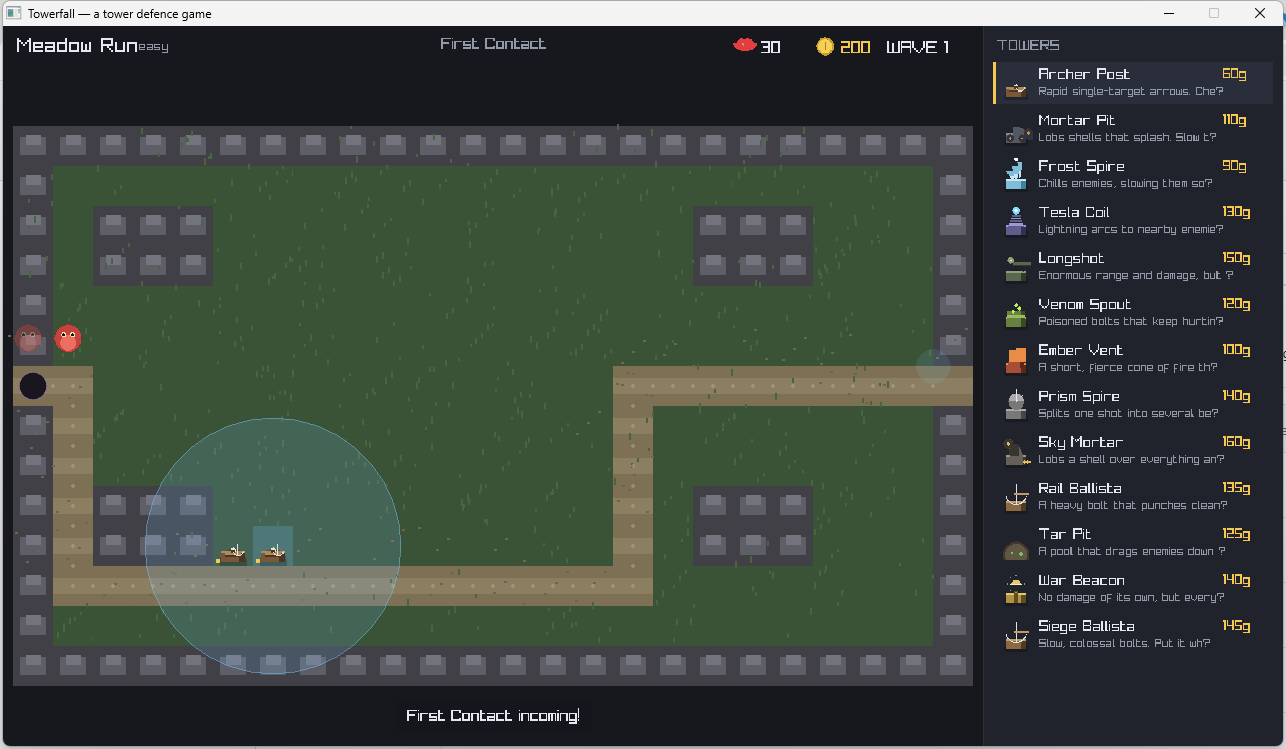
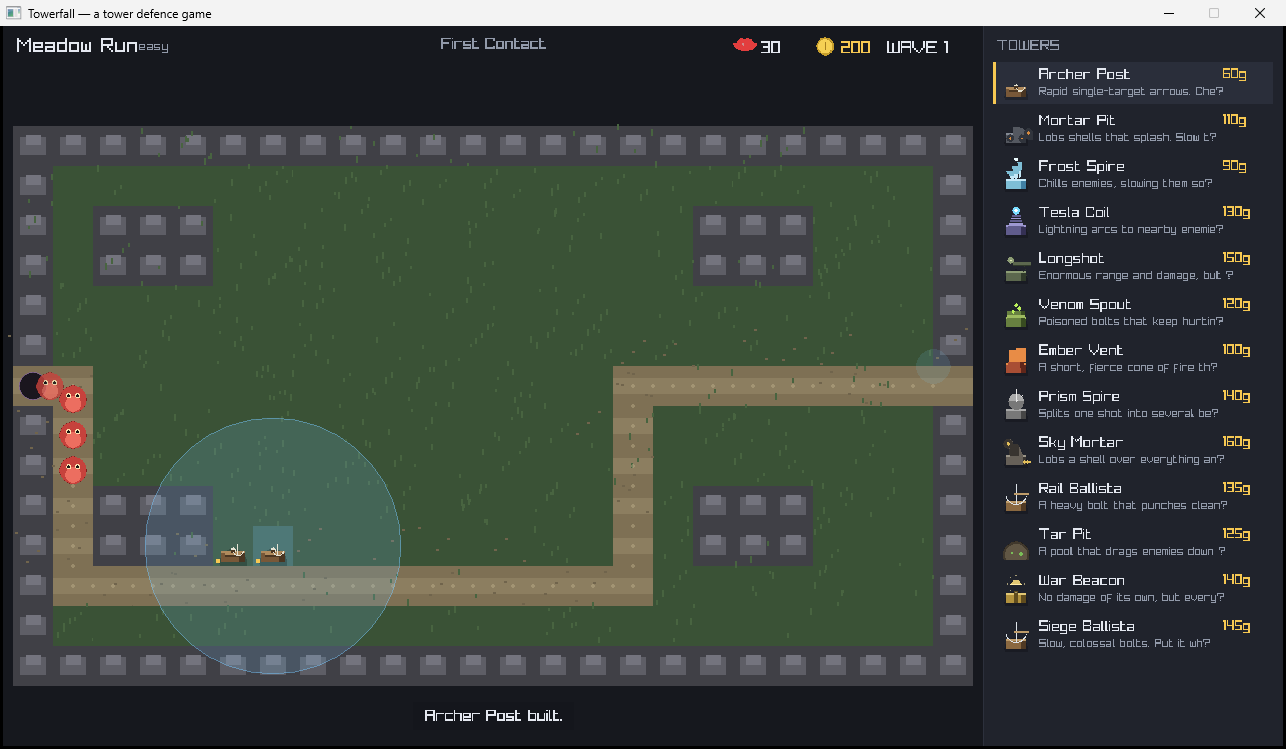
Feat, fix the scaling misalignment

Changed region(s): [[0.0, 0.0, 1.0, 1.0], [0.0, 0.4299, 0.0933, 0.6449], [0.0, 0.0, 0.0311, 0.0307]]

diff --git a/tests/run_tests.cpp b/tests/run_tests.cpp
@@ -13,6 +13,7 @@
 
 #include "core/Game.h"
 #include "core/LuaContent.h"
+#include "core/MapView.h"
 
 using namespace tf;
 
@@ -165,12 +166,115 @@ int buildDefence(Game& g, TowerKind kind = TowerKind::Arrow, int maxTowers = 30)
     return built;
 }
 
+Cell routeCellNear(const Game& g, Vec2 world) {
+    Cell best{0, 0};
+    float bestD = 1e30f;
+    for (const Cell& c : g.level().waypoints) {
+        const Vec2 w = g.cellToWorld(c);
+        const float dx = w.x - world.x, dy = w.y - world.y;
+        const float d = dx * dx + dy * dy;
+        if (d < bestD) { bestD = d; best = c; }
+    }
+    return best;
+}
+
 }  // namespace
 
 // ===========================================================================
 
 int main() {
     std::printf("towerfall — headless test suite\n");
+
+    // ---------------------------------------------------------------------
+    // THE COORDINATE-SPACE BRIDGE.
+    //
+    // The simulation works in 48-pixel world tiles; the map is DRAWN at a
+    // different pixel size so it fits the window. Anything drawn in world pixels
+    // (enemies, projectiles) has to be scaled by the same factor as the terrain.
+    //
+    // This bug is not subtle: with the wrong factor the enemy leaves the path,
+    // starts a tile high and drifts off to the right, because the error grows
+    // with distance from the origin. These checks would have caught it.
+    section("coordinate space (world <-> screen)");
+    {
+        Game g = makeGame();
+        const float world = g.tileSize();
+
+        // The real case: the display tile size is smaller than the world tile size.
+        const int display = std::min(static_cast<int>(980 / g.grid().width()),
+                                     static_cast<int>((720 - 40) / g.grid().height()));
+        check(display != static_cast<int>(world),
+              "the display tile size really does differ from the world tile size "
+              "(otherwise this test proves nothing)");
+
+        const MapView view{10.0f, 100.0f, static_cast<float>(display), world};
+
+        // A cell's world position must land on that cell when converted to screen.
+        for (int x = 0; x < g.grid().width(); ++x) {
+            for (int y = 0; y < g.grid().height(); ++y) {
+                const Cell c{x, y};
+                const Vec2 w = g.cellToWorld(c);
+                const Vec2 s = view.worldToScreen(w);
+                const Cell back = view.screenToCell(s.x, s.y);
+                if (back.x != c.x || back.y != c.y) {
+                    check(false, "cell " + std::to_string(x) + "," + std::to_string(y) +
+                                     " does not round-trip world -> screen -> cell");
+                    x = g.grid().width();
+                    break;
+                }
+            }
+        }
+        check(true, "every cell round-trips world -> screen -> cell");
+
+        // The centre of a cell must land inside that cell on screen.
+        const Cell mid{5, 6};
+        const Vec2 worldPos = g.cellToWorld(mid);
+        const Vec2 screenPos = view.worldToScreen(worldPos);
+        const Cell got = view.screenToCell(screenPos.x, screenPos.y);
+        check(got.x == mid.x && got.y == mid.y,
+              "a world position on the path maps back to the same cell on screen");
+
+        // The scale factor must be the display size over the world size.
+        checkEqF(view.scale(), static_cast<float>(display) / world, 0.0001f,
+                 "the world -> screen scale is display tiles / world tiles");
+
+        // screen -> world is the exact inverse of world -> screen.
+        const Vec2 back = view.screenToWorld(screenPos.x, screenPos.y);
+        checkEqF(back.x, worldPos.x, 0.01f, "screen -> world inverts world -> screen (x)");
+        checkEqF(back.y, worldPos.y, 0.01f, "screen -> world inverts world -> screen (y)");
+
+        // THE REGRESSION ITSELF: an enemy standing on a path cell must be drawn
+        // over that same path cell. Before the fix the enemy was drawn at its raw
+        // world pixels, which is a different place entirely.
+        const Cell pathCell = routeCellNear(g, g.cellToWorld(routeStart(g)));
+        const Vec2 enemyWorld = g.cellToWorld(pathCell);
+        const Vec2 enemyScreen = view.worldToScreen(enemyWorld);
+        const Cell enemyCell = view.screenToCell(enemyScreen.x, enemyScreen.y);
+        check(enemyCell.x == pathCell.x && enemyCell.y == pathCell.y,
+              "an enemy on a path cell is DRAWN over that path cell, not off it");
+
+        // And the error must be small at the far corner of the map too, which is
+        // where the old code drifted furthest.
+        //
+        // cellToWorld gives the CENTRE of a cell; cellToScreen gives its CORNER.
+        // So the centre on screen is the corner plus half a display tile.
+        const Cell far{g.grid().width() - 1, g.grid().height() - 1};
+        const Vec2 farWorld = g.cellToWorld(far);
+        const Vec2 farScreen = view.worldToScreen(farWorld);
+        const Vec2 farCorner = view.cellToScreen(far);
+        const float half = view.tileSize * 0.5f;
+        checkEqF(farScreen.x, farCorner.x + half, 0.01f,
+                 "the far corner of the map does not drift (x)");
+        checkEqF(farScreen.y, farCorner.y + half, 0.01f,
+                 "the far corner of the map does not drift (y)");
+
+        // The drift the old code produced, stated as a number: at the far corner
+        // the enemy was drawn a full tile away from the terrain under it.
+        const float oldScale = 1.0f;  // the old code drew world pixels as screen pixels
+        const float oldX = view.originX + farWorld.x * oldScale;
+        check(std::fabs(oldX - farScreen.x) > 15.0f,
+              "the old (unscaled) drawing was off by more than 15px at the far corner");
+    }
 
     // ---------------------------------------------------------------------
     section("grid and pathfinding");

diff --git a/src/render/Renderer.cpp b/src/render/Renderer.cpp
@@ -206,8 +206,20 @@ void Renderer::draw(const Game& g, const GameView& view) {
     const int mapX = (canvasW - mapW) / 2;
     const int mapY = 40 + (screenH - 40 - mapH) / 2;
 
+    // THE COORDINATE-SPACE BRIDGE — see MapView in Renderer.h. The renderer and the
+    // input code share this one object, so a click and a drawn enemy can never
+    // disagree about where a cell is.
+    const MapView mapView{static_cast<float>(mapX), static_cast<float>(mapY),
+                          static_cast<float>(ts), g.tileSize()};
+
+    // The core Vec2 -> raylib Vector2, at the last possible moment.
     auto cellPx = [&](Cell c) {
-        return Vector2{static_cast<float>(mapX + c.x * ts), static_cast<float>(mapY + c.y * ts)};
+        const Vec2 s = mapView.cellToScreen(c);
+        return Vector2{s.x, s.y};
+    };
+    auto worldToScreen = [&](Vec2 w) {
+        const Vec2 s = mapView.worldToScreen(w);
+        return Vector2{s.x, s.y};
     };
 
     // ---- terrain
@@ -323,23 +335,24 @@ void Renderer::draw(const Game& g, const GameView& view) {
         Color tint{255, 255, 255, static_cast<unsigned char>(alpha)};
         if (e.hitFlash > 0) tint = Color{255, 200, 200, static_cast<unsigned char>(alpha)};
         if (e.slowFactor < 1.0f) tint.r = static_cast<unsigned char>(tint.r * 0.7f);
+        const Vector2 ep = worldToScreen(Vec2{e.x, e.y});
         drawScaled(sprites_.enemySprites[static_cast<size_t>(texIndex)],
-                   static_cast<int>(e.x - size * 0.5f), static_cast<int>(e.y - size * 0.5f),
+                   static_cast<int>(ep.x - size * 0.5f), static_cast<int>(ep.y - size * 0.5f),
                    static_cast<int>(size), tint);
 
         if (e.maxHp > 60 || e.isBoss) {
             const float w = size * 0.9f;
-            DrawRectangle(e.x - w * 0.5f, e.y - size * 0.6f, w, 4, Color{26, 26, 30, 220});
+            DrawRectangle(ep.x - w * 0.5f, ep.y - size * 0.6f, w, 4, Color{26, 26, 30, 220});
             const float frac = std::max(0.0f, e.hp / static_cast<float>(e.maxHp));
-            DrawRectangle(e.x - w * 0.5f, e.y - size * 0.6f, w * frac, 4,
+            DrawRectangle(ep.x - w * 0.5f, ep.y - size * 0.6f, w * frac, 4,
                           e.isBoss ? Color{220, 90, 90, 255} : Color{240, 200, 90, 255});
         }
-        float sy = e.y - size * 0.75f;
-        if (e.slowTimer > 0)   { DrawCircleV({e.x - 8, sy}, 4, Color{110, 190, 240, 255}); sy -= 9; }
-        if (e.burnTimer > 0)   { DrawCircleV({e.x - 8, sy}, 4, Color{240, 140, 60, 255}); sy -= 9; }
-        if (e.poisonTimer > 0) { DrawCircleV({e.x - 8, sy}, 4, Color{140, 220, 90, 255}); sy -= 9; }
+        float sy = ep.y - size * 0.75f;
+        if (e.slowTimer > 0)   { DrawCircleV({ep.x - 8, sy}, 4, Color{110, 190, 240, 255}); sy -= 9; }
+        if (e.burnTimer > 0)   { DrawCircleV({ep.x - 8, sy}, 4, Color{240, 140, 60, 255}); sy -= 9; }
+        if (e.poisonTimer > 0) { DrawCircleV({ep.x - 8, sy}, 4, Color{140, 220, 90, 255}); sy -= 9; }
         if (e.archetype == EnemyArchetype::Attacker) {
-            DrawCircleLinesV({e.x, e.y}, size * 0.62f, Color{240, 90, 90, 160});
+            DrawCircleLinesV(ep, size * 0.62f, Color{240, 90, 90, 160});
         }
     }
 
@@ -359,14 +372,15 @@ void Renderer::draw(const Game& g, const GameView& view) {
             case ProjectileStyle::Pierce:      c = Color{240, 246, 255, 255}; r = 3; break;
             default: break;
         }
-        DrawCircleV({p.pos.x, p.pos.y}, r, c);
+        DrawCircleV(worldToScreen(Vec2{p.pos.x, p.pos.y}), r, c);
     }
 
     // ---- floating text
     for (const auto& f : g.floaters()) {
         const float a = std::max(0.0f, f.life / f.maxLife);
-        drawTextCentered(f.text, static_cast<int>(f.pos.x),
-                         static_cast<int>(f.pos.y - (1.0f - a) * 18), 16,
+        const Vector2 fp = worldToScreen(f.pos);
+        drawTextCentered(f.text, static_cast<int>(fp.x),
+                         static_cast<int>(fp.y - (1.0f - a) * 18), 16,
                          Color{static_cast<unsigned char>(f.color.r * a + 60 * (1 - a)),
                                static_cast<unsigned char>(f.color.g * a + 60 * (1 - a)),
                                static_cast<unsigned char>(f.color.b * a + 60 * (1 - a)),

diff --git a/src/core/MapView.h b/src/core/MapView.h
@@ -1,0 +1,61 @@
+// towerfall — the coordinate bridge between the simulation and the screen.
+//
+// THE SINGLE SOURCE OF TRUTH FOR THE COORDINATE CONVERSION.
+//
+// The simulation works in a fixed world space where one tile is `worldTileSize`
+// pixels (48). The map is DRAWN at `tileSize` pixels per tile so that it fits the
+// window, so those two numbers are usually different.
+//
+// Anything positioned in world pixels — enemies, projectiles, floating text — must be
+// scaled by the same factor as the terrain, or it is drawn somewhere the terrain is
+// not. Forgetting this is not a subtle bug: the enemy leaves the path, starts a tile
+// high, and drifts off to the right, because the error grows with distance from the
+// origin.
+//
+// This struct is shared by the renderer (world -> screen) and by the input code
+// (screen -> cell), so the two can never disagree. It has no graphics dependency, so
+// it is unit tested.
+
+#pragma once
+
+#include "core/Types.h"
+
+namespace tf {
+
+struct MapView {
+    // Where the map's top-left corner is on the screen.
+    float originX = 0;
+    float originY = 0;
+    // How many screen pixels one tile occupies.
+    float tileSize = 48;
+    // How many WORLD pixels one tile occupies (the simulation's tile size).
+    float worldTileSize = 48;
+
+    // The factor that converts world pixels into screen pixels.
+    float scale() const { return tileSize / worldTileSize; }
+
+    // world -> screen
+    Vec2 worldToScreen(Vec2 w) const {
+        const float s = scale();
+        return Vec2{originX + w.x * s, originY + w.y * s};
+    }
+
+    // screen -> world
+    Vec2 screenToWorld(float sx, float sy) const {
+        const float s = worldTileSize / tileSize;
+        return Vec2{(sx - originX) * s, (sy - originY) * s};
+    }
+
+    // screen -> cell
+    Cell screenToCell(float sx, float sy) const {
+        return Cell{static_cast<int>((sx - originX) / tileSize),
+                    static_cast<int>((sy - originY) / tileSize)};
+    }
+
+    // cell -> screen (the top-left corner of the tile, for drawing terrain)
+    Vec2 cellToScreen(Cell c) const {
+        return Vec2{originX + c.x * tileSize, originY + c.y * tileSize};
+    }
+};
+
+}  // namespace tf

diff --git a/src/main.cpp b/src/main.cpp
@@ -45,10 +45,13 @@ Cell mouseToCell(const Game& game, Vector2 mouse) {
     const int mapX = (canvasW - mapW) / 2;
     const int mapY = 40 + (GetScreenHeight() - 40 - mapH) / 2;
 
-    const int cx = static_cast<int>((mouse.x - mapX) / ts);
-    const int cy = static_cast<int>((mouse.y - mapY) / ts);
-    if (!game.grid().inBounds(cx, cy)) return Cell{-1, -1};
-    return Cell{cx, cy};
+    // The SAME conversion the renderer uses, so a click always lands on the tile
+    // that is actually drawn under the cursor.
+    const MapView view{static_cast<float>(mapX), static_cast<float>(mapY),
+                       static_cast<float>(ts), game.tileSize()};
+    const Cell c = view.screenToCell(mouse.x, mouse.y);
+    if (!game.grid().inBounds(c.x, c.y)) return Cell{-1, -1};
+    return c;
 }
 
 /** Where the i-th tower button starts in the sidebar. */

diff --git a/src/render/Renderer.h b/src/render/Renderer.h
@@ -12,6 +12,7 @@
 #include "raylib.h"
 
 #include "core/Game.h"
+#include "core/MapView.h"
 
 namespace tf {
 
